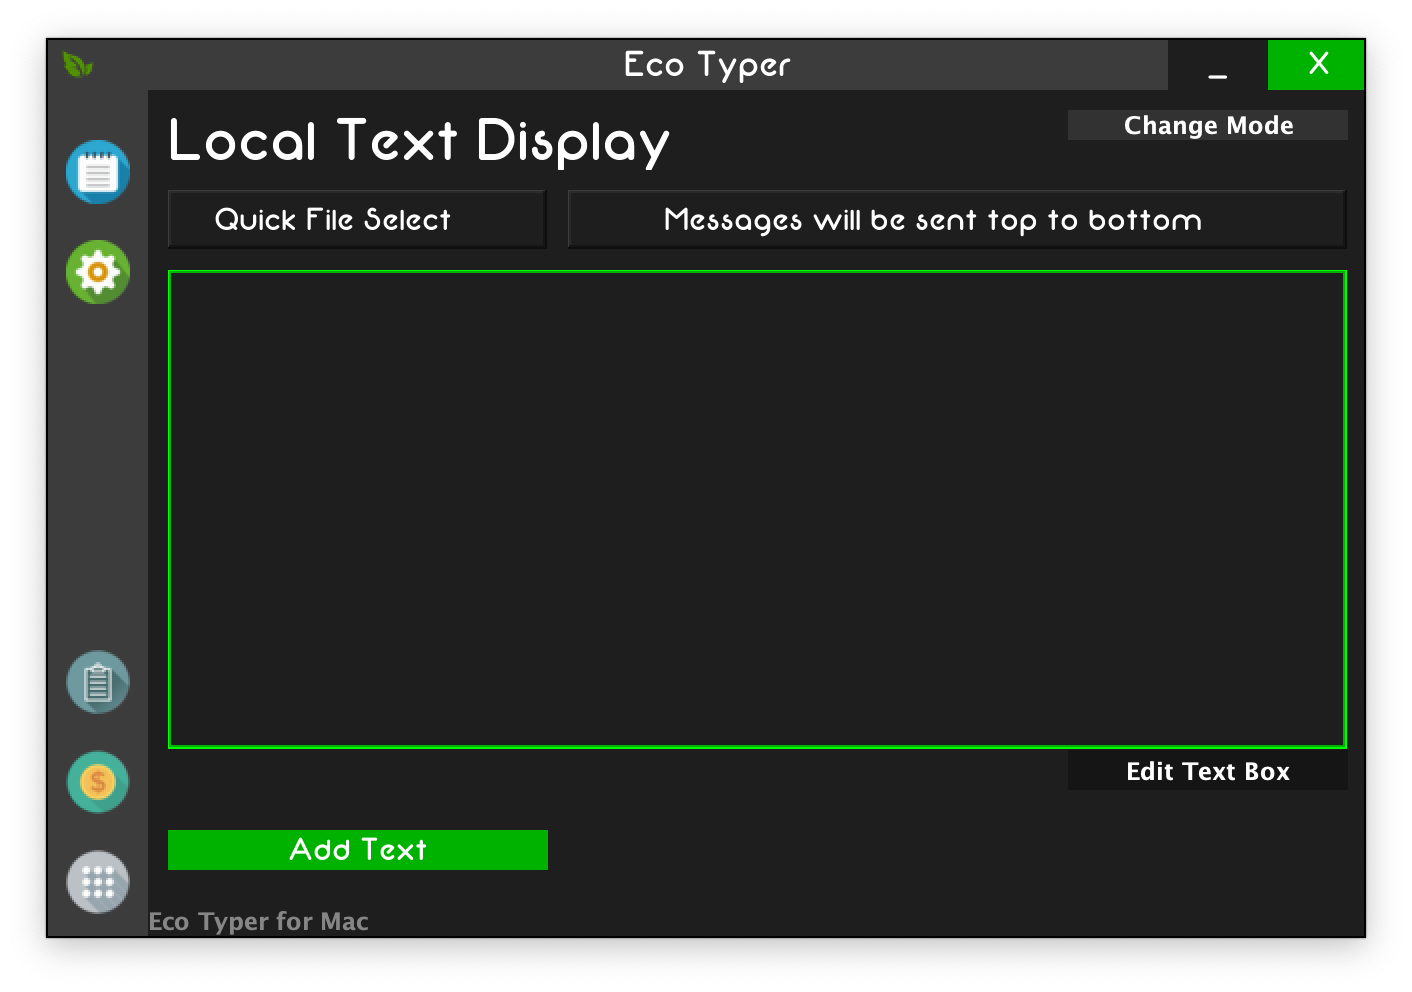
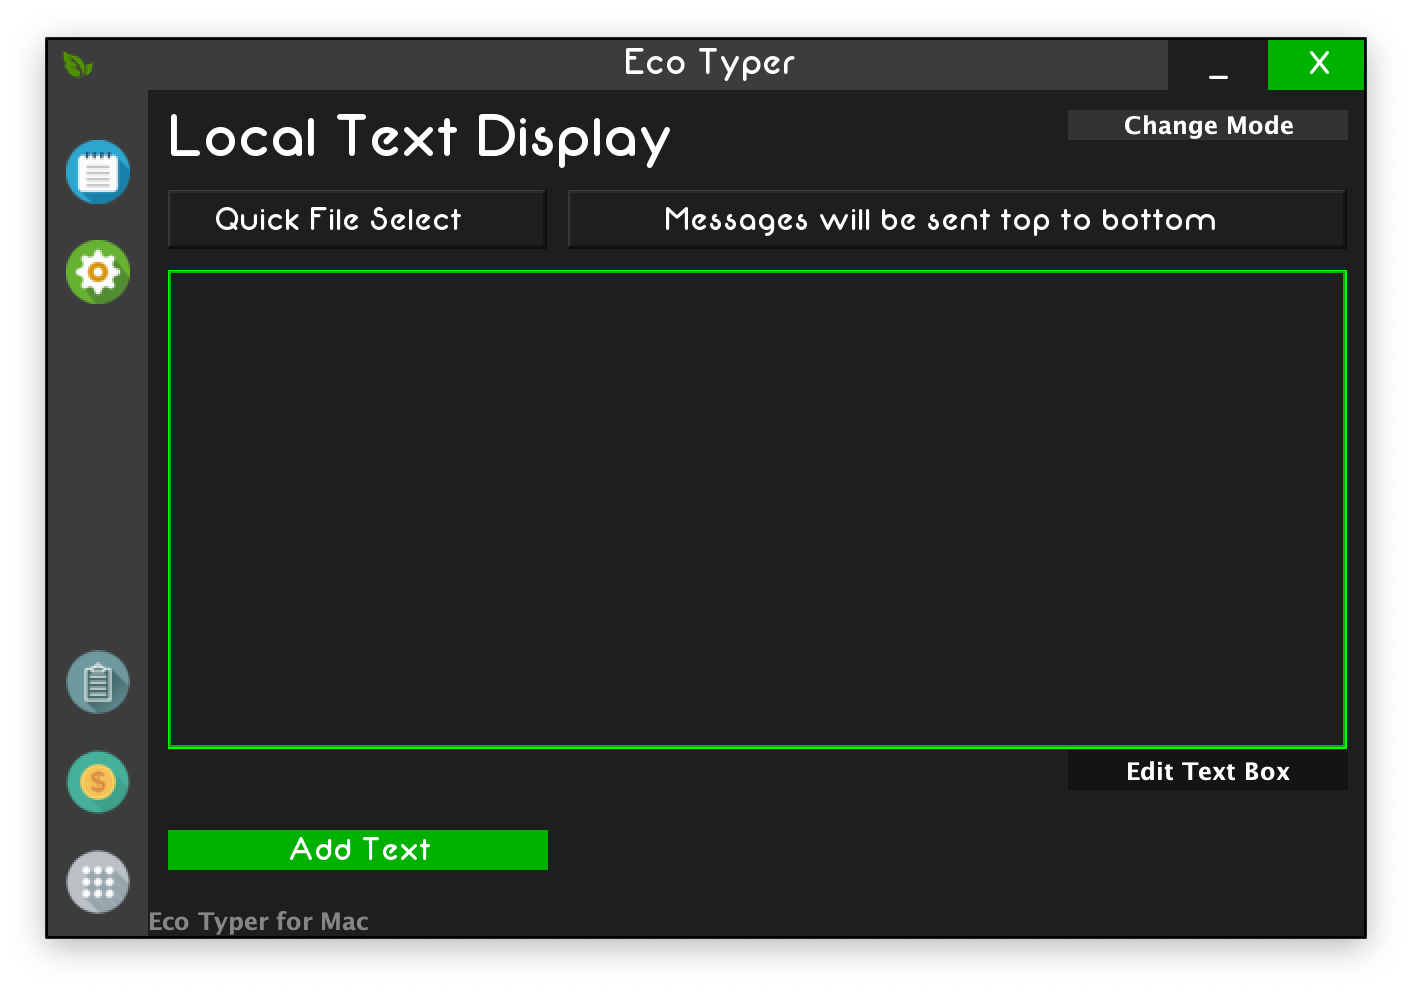
Pages -> Templates

diff --git a/src/eco/typer/pages/PageSelector.java b/src/eco/typer/pages/PageSelector.java
@@ -40,7 +40,7 @@ public class PageSelector extends CPanel
 	
 	public PageSelector()
 	{
-		super("Page Editor");
+		super("Text Template Editor");
 		
 		PageFileList();
 		MakeNewPage();
@@ -71,9 +71,9 @@ public class PageSelector extends CPanel
 
 	private void MakeNewPage()
 	{
-		CButton makeNewPage = new CButton("Make New Page");
-		makeNewPage.setBounds(230, 50, 190, 20);
-		makeNewPage.addMouseListener(new SUL("Allows you to make a custom page for later use."));
+		CButton makeNewPage = new CButton("Make New Template");
+		makeNewPage.setBounds(230, 50, 250, 20);
+		makeNewPage.addMouseListener(new SUL("Allows you to make a custom template for later use."));
 		makeNewPage.addActionListener(e ->
 		{
 			CustomFrame.updateDisplay(new PageMaker());
@@ -83,9 +83,9 @@ public class PageSelector extends CPanel
 	
 	private void EditSelectedPage()
 	{
-		CButton editSelPage = new CButton("Edit Selected Page");
-		editSelPage.setBounds(230, 80, 190, 20);
-		editSelPage.addMouseListener(new SUL("Allows you to edit the currently selected page."));
+		CButton editSelPage = new CButton("Edit Selected Template");
+		editSelPage.setBounds(230, 80, 250, 20);
+		editSelPage.addMouseListener(new SUL("Allows you to edit the currently selected template."));
 		editSelPage.addActionListener(e ->
 		{
 			if(fileList.getSelectedValue() == null)
@@ -102,9 +102,9 @@ public class PageSelector extends CPanel
 	
 	private void DeleteSelectedPage()
 	{
-		CButton deleteSelPage = new CButton("Delete Selected Page");
-		deleteSelPage.setBounds(230, 110, 190, 20);
-		deleteSelPage.addMouseListener(new SUL("Allows you to remove the currently selected page."));
+		CButton deleteSelPage = new CButton("Delete Selected Template");
+		deleteSelPage.setBounds(230, 110, 250, 20);
+		deleteSelPage.addMouseListener(new SUL("Allows you to remove the currently selected template."));
 		deleteSelPage.addActionListener(e ->
 		{
 			if(fileList.getSelectedValue() == null)
@@ -113,7 +113,7 @@ public class PageSelector extends CPanel
 			}
 			else
 			{
-				int result = JOptionPane.showConfirmDialog(Settings.frame, "You're about to delete a page, do you want to continue?", "Page Deletion", JOptionPane.YES_NO_CANCEL_OPTION);
+				int result = JOptionPane.showConfirmDialog(Settings.frame, "You're about to delete a template, do you want to continue?", "Template Deletion", JOptionPane.YES_NO_CANCEL_OPTION);
 				if(result == 0)
 				{
 					File fileName = new File(Constants.HOST_FILES_DIRECTORY + "/" + fileList.getSelectedValue() + ".epg");
@@ -127,10 +127,10 @@ public class PageSelector extends CPanel
 	
 	private void InfoIcon()
 	{
-		IconLabel infoIcon = new IconLabel("\uf05a", "", "FontAwesome.ttf", 30);
-		infoIcon.setBounds(CustomFrame.WORKPANEL_WIDTH - 30, CustomFrame.WORKPANEL_HEIGHT - 30, 50, 50);
-		infoIcon.addMouseListener(new SUL("Find out how to use the Page System."));
-		add(infoIcon);
+//		IconLabel infoIcon = new IconLabel("\uf05a", "", "FontAwesome.ttf", 30);
+//		infoIcon.setBounds(CustomFrame.WORKPANEL_WIDTH - 30, CustomFrame.WORKPANEL_HEIGHT - 30, 50, 50);
+//		infoIcon.addMouseListener(new SUL("Find out how to use the Template System."));
+//		add(infoIcon);
 	}
 
 }

diff --git a/src/eco/typer/pages/PageMaker.java b/src/eco/typer/pages/PageMaker.java
@@ -38,7 +38,7 @@ public class PageMaker extends CPanel
 	
 	public PageMaker()
 	{
-		super("New Page");
+		super("New Template");
 		
 		int c = 110;
 		for(int i = 0; i < 6; i++)
@@ -60,12 +60,12 @@ public class PageMaker extends CPanel
 
 	private void MakePageButton()
 	{
-		CButton makePageButton = new CButton("Make Page");
-		makePageButton.addMouseListener(new SUL("Make a new page."));
+		CButton makePageButton = new CButton("Make Template");
+		makePageButton.addMouseListener(new SUL("Make a new template."));
 		makePageButton.setBounds(410, CustomFrame.WORKPANEL_HEIGHT - 30, 190, 20);
 		makePageButton.addActionListener(e ->
 		{
-			String fileName = JOptionPane.showInputDialog(Settings.frame, "What would you like to name this page?");
+			String fileName = JOptionPane.showInputDialog(Settings.frame, "What would you like to name this template?");
 			if(fileName != null && !fileName.equals("") && !replacementInputField.getText().equals(""))
 			{
 				File file = new File(Constants.HOST_FILES_DIRECTORY + "/" + fileName + ".epg");

diff --git a/src/eco/typer/pages/PageEditor.java b/src/eco/typer/pages/PageEditor.java
@@ -39,7 +39,7 @@ public class PageEditor extends CPanel
 	
 	public PageEditor(String pageName)
 	{
-		super("Page Editor - " + pageName);
+		super("Template Editor - " + pageName);
 		this.pageFile = new File(Constants.HOST_FILES_DIRECTORY + "/" + pageName + ".epg");
 		values = readInFile();
 		
@@ -145,7 +145,7 @@ public class PageEditor extends CPanel
 	private void SavePageButton()
 	{
 		CButton savePageButton = new CButton("Save Changes");
-		savePageButton.addMouseListener(new SUL("Save the changes to this page."));
+		savePageButton.addMouseListener(new SUL("Save the changes to this template."));
 		savePageButton.setBounds(410, CustomFrame.WORKPANEL_HEIGHT - 30, 190, 20);
 		savePageButton.addActionListener(e ->
 		{

diff --git a/src/eco/typer/sub_panels/AddingTextPanel.java b/src/eco/typer/sub_panels/AddingTextPanel.java
@@ -93,8 +93,8 @@ public class AddingTextPanel extends CPanel
 
 	private void PageSelector()
 	{
-		pageSelector = new CComboBox("Page Select", Constants.TEXT_PAGES);
-		pageSelector.addMouseListener(new SUL("Use this to quickly change pages."));
+		pageSelector = new CComboBox("Text Template", Constants.TEXT_PAGES);
+		pageSelector.addMouseListener(new SUL("Use this to quickly change templates."));
 		pageSelector.setBounds(CustomFrame.WORKPANEL_WIDTH - 200, 50, 190, 30);
 		pageSelector.addActionListener(e -> {
 			switch(pageSelector.getSelectedIndex())

diff --git a/src/eco/typer/tools/Utils.java b/src/eco/typer/tools/Utils.java
@@ -172,9 +172,9 @@ public class Utils
 			Constants.SAVED_SEQUENCE_FILES.add("---Save/Delete Files---");
 			Constants.SAVED_SEQUENCE_FILES.add("---Clear Text Box---");
 		}
-		if(!Constants.TEXT_PAGES.contains("---Edit Pages---"))
+		if(!Constants.TEXT_PAGES.contains("---Edit Templates---"))
 		{
-			Constants.TEXT_PAGES.add("---Edit Pages---");
+			Constants.TEXT_PAGES.add("---Edit Templates---");
 		}
 		
 		File[] files = Constants.HOST_FILES_DIRECTORY.listFiles();
